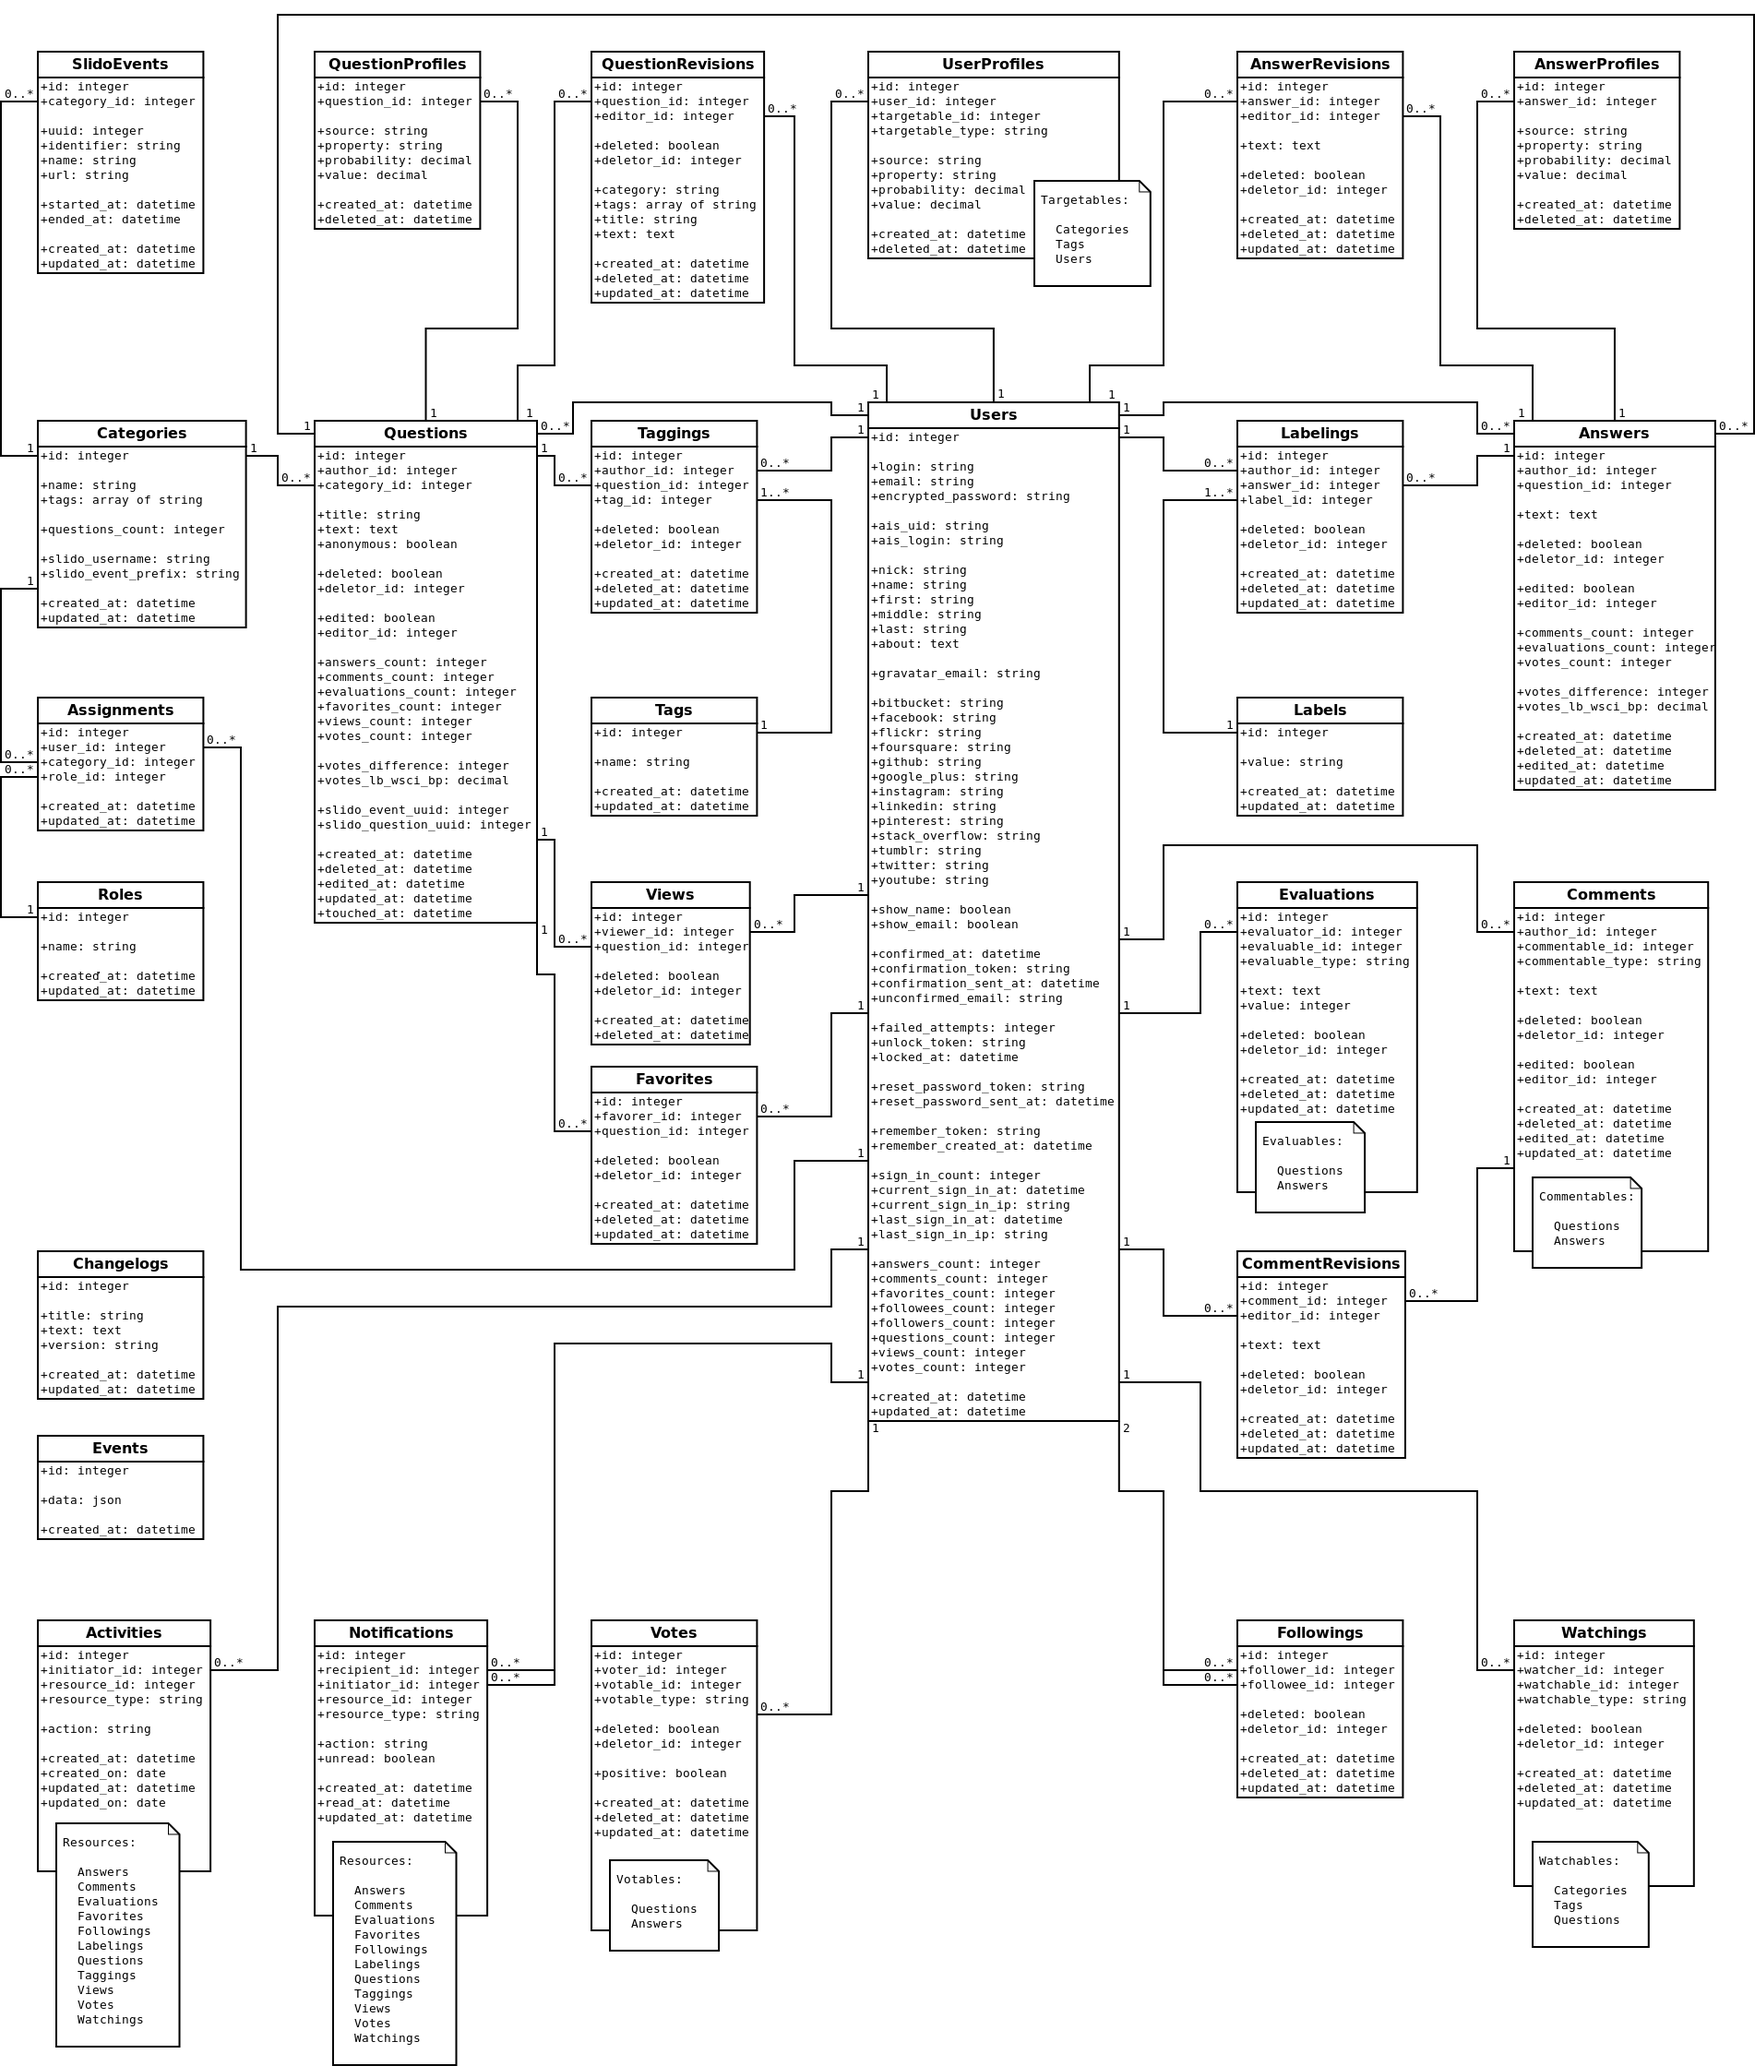
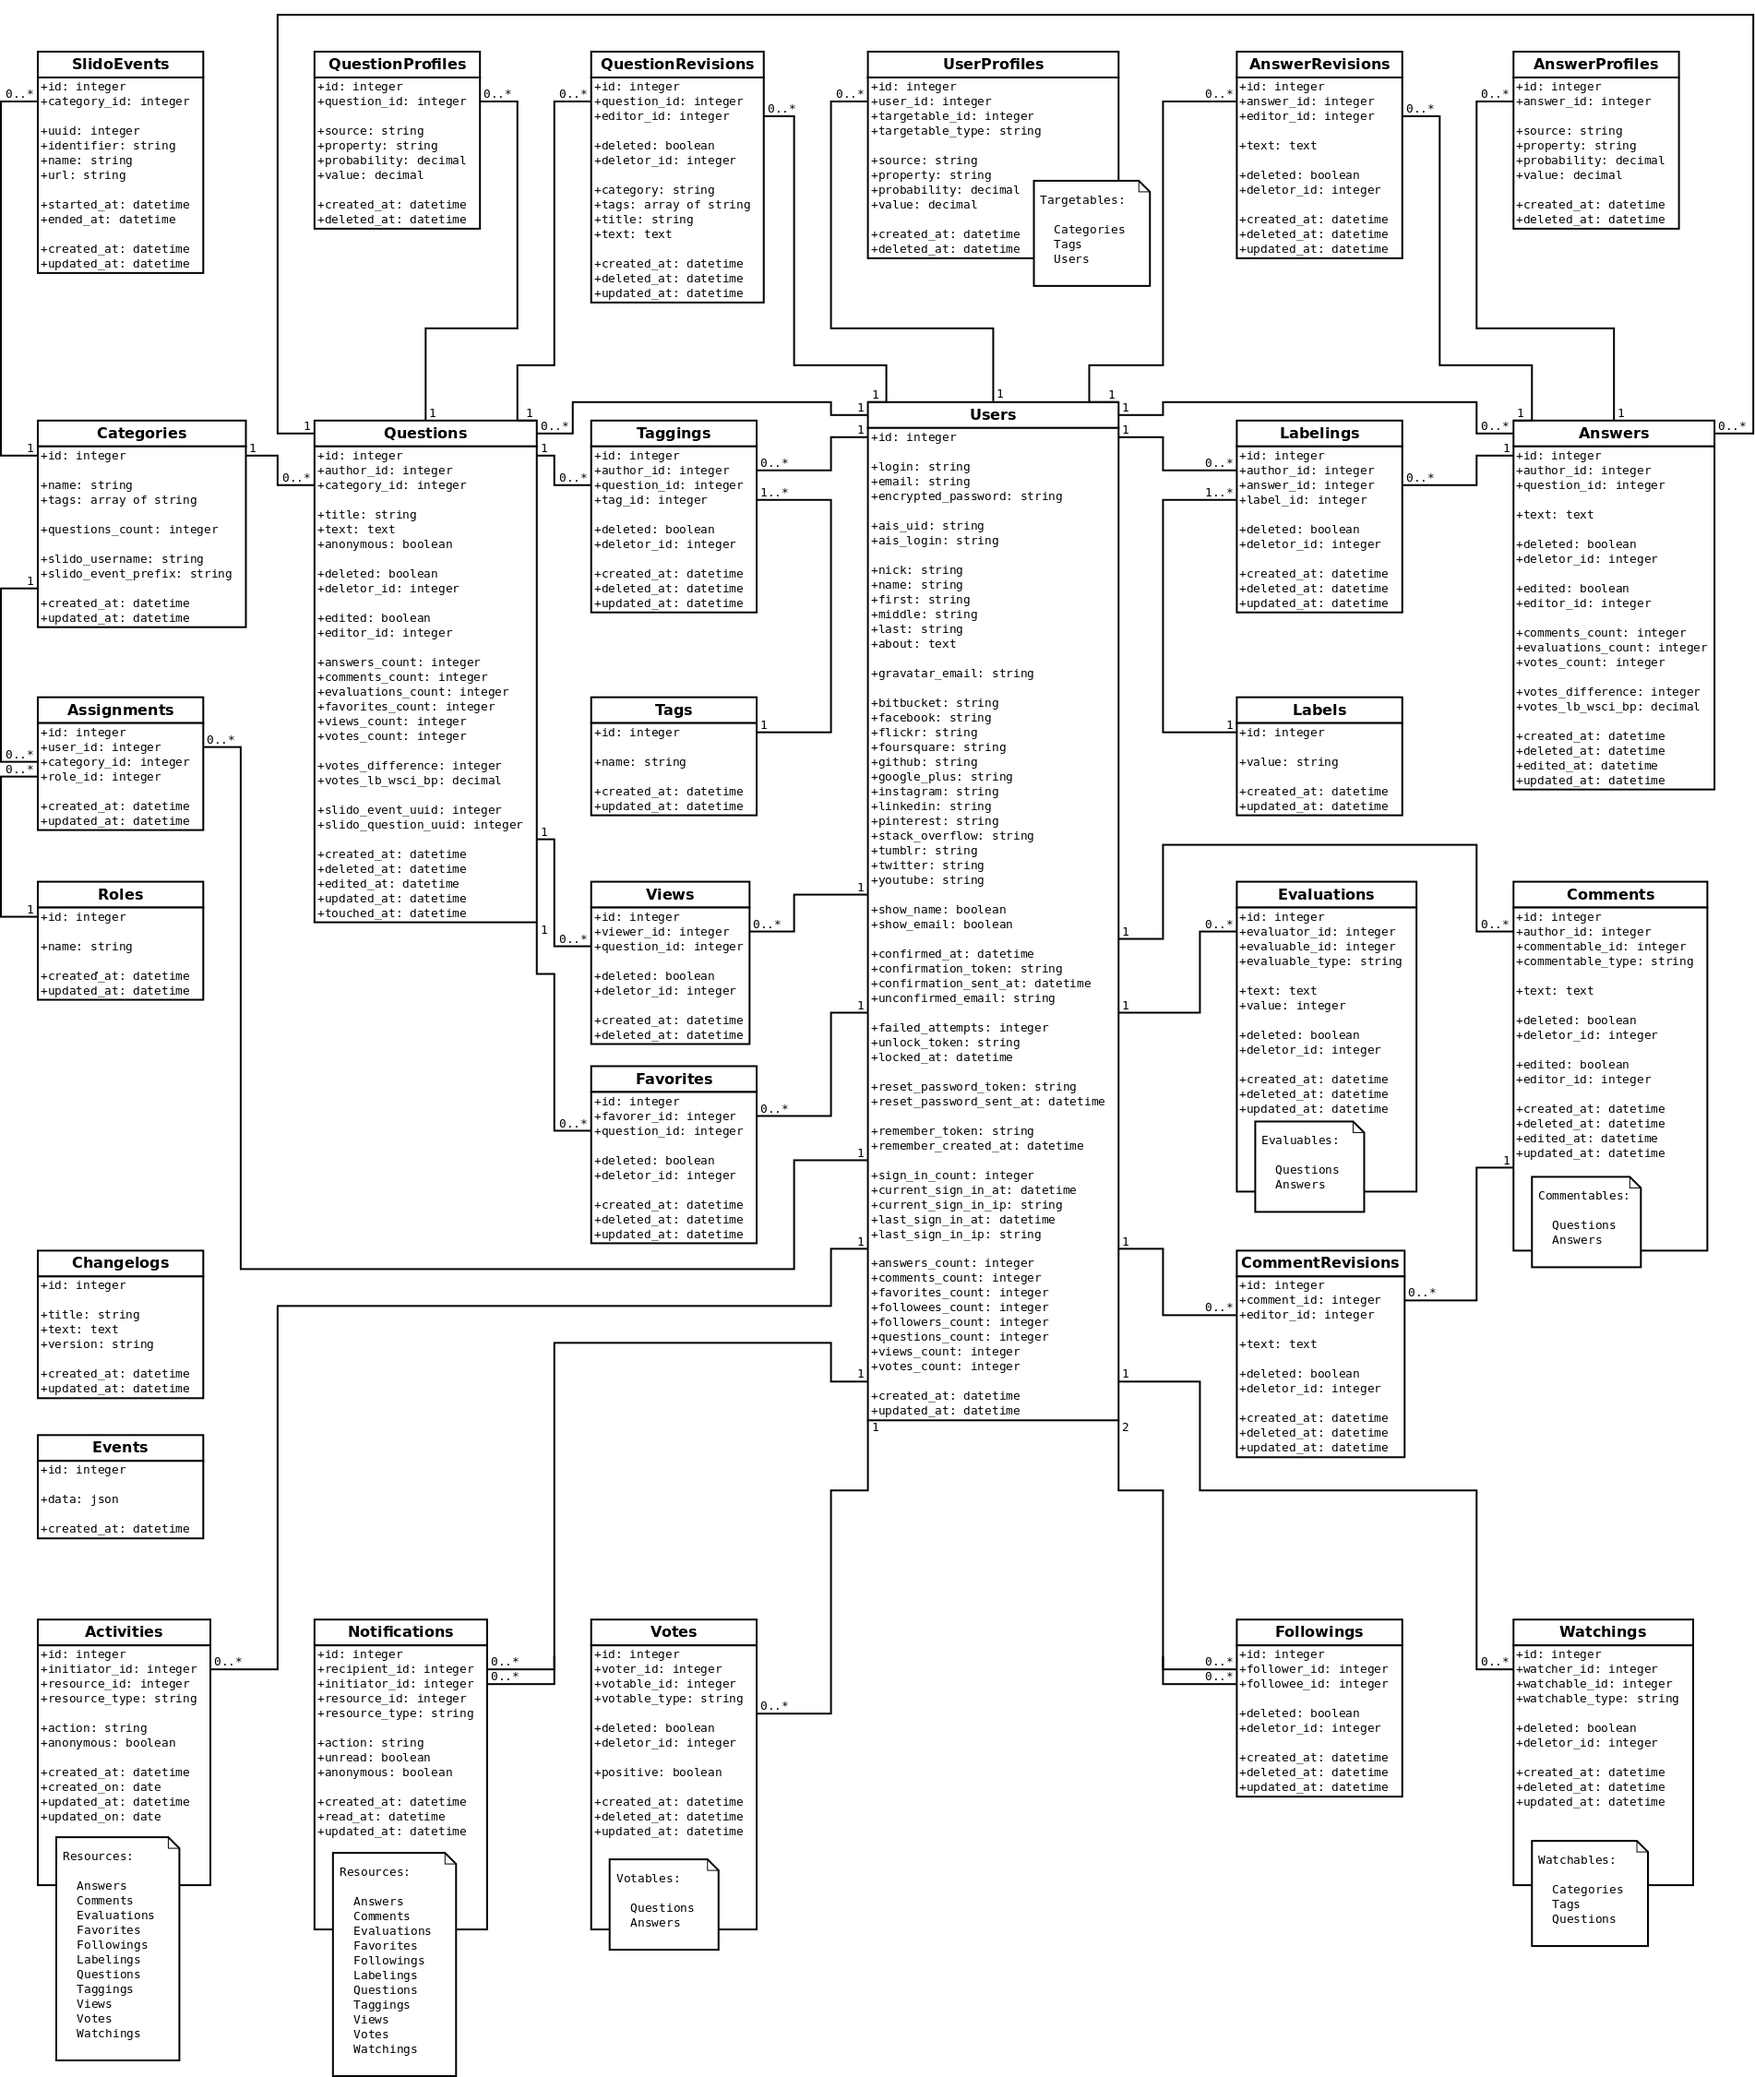
Migration to add anonymous flag to Activity and Notification

diff --git a/db/schema.rb b/db/schema.rb
@@ -11,23 +11,25 @@
 #
 # It's strongly recommended that you check this file into your version control system.
 
-ActiveRecord::Schema.define(version: 20140420093029) do
+ActiveRecord::Schema.define(version: 20140419150139) do
 
   # These are extensions that must be enabled in order to support this database
   enable_extension "plpgsql"
 
   create_table "activities", force: true do |t|
-    t.integer  "initiator_id",  null: false
-    t.integer  "resource_id",   null: false
-    t.string   "resource_type", null: false
-    t.string   "action",        null: false
-    t.date     "created_on",    null: false
-    t.date     "updated_on",    null: false
-    t.datetime "created_at",    null: false
-    t.datetime "updated_at",    null: false
+    t.integer  "initiator_id",                  null: false
+    t.integer  "resource_id",                   null: false
+    t.string   "resource_type",                 null: false
+    t.string   "action",                        null: false
+    t.datetime "created_at"
+    t.datetime "updated_at"
+    t.date     "created_on",                    null: false
+    t.date     "updated_on",                    null: false
+    t.boolean  "anonymous",     default: false, null: false
   end
 
   add_index "activities", ["action"], name: "index_activities_on_action", using: :btree
+  add_index "activities", ["created_at"], name: "index_activities_on_created_at", using: :btree
   add_index "activities", ["created_on"], name: "index_activities_on_created_on", using: :btree
   add_index "activities", ["initiator_id"], name: "index_activities_on_initiator_id", using: :btree
   add_index "activities", ["resource_id", "resource_type"], name: "index_activities_on_resource_id_and_resource_type", using: :btree
@@ -233,15 +235,16 @@ ActiveRecord::Schema.define(version: 20140420093029) do
   add_index "labels", ["value"], name: "index_labels_on_value", unique: true, using: :btree
 
   create_table "notifications", force: true do |t|
-    t.integer  "recipient_id",                 null: false
-    t.integer  "initiator_id",                 null: false
-    t.integer  "resource_id",                  null: false
-    t.string   "resource_type",                null: false
-    t.string   "action",                       null: false
-    t.boolean  "unread",        default: true, null: false
-    t.datetime "created_at",                   null: false
-    t.datetime "updated_at",                   null: false
+    t.integer  "recipient_id",                  null: false
+    t.integer  "initiator_id",                  null: false
+    t.integer  "resource_id",                   null: false
+    t.string   "resource_type",                 null: false
+    t.string   "action",                        null: false
+    t.boolean  "unread",        default: true,  null: false
+    t.datetime "created_at",                    null: false
+    t.datetime "updated_at",                    null: false
     t.datetime "read_at"
+    t.boolean  "anonymous",     default: false, null: false
   end
 
   add_index "notifications", ["action"], name: "index_notifications_on_action", using: :btree
@@ -288,8 +291,8 @@ ActiveRecord::Schema.define(version: 20140420093029) do
     t.integer  "slido_question_uuid"
     t.integer  "slido_event_uuid"
     t.boolean  "deleted",                                       default: false, null: false
-    t.decimal  "votes_lb_wsci_bp",    precision: 13, scale: 12, default: 0.0,   null: false
     t.datetime "touched_at",                                                    null: false
+    t.decimal  "votes_lb_wsci_bp",    precision: 13, scale: 12, default: 0.0,   null: false
     t.datetime "edited_at"
     t.integer  "editor_id"
     t.datetime "deleted_at"

diff --git a/db/migrate/20140419150139_add_anonymous_flag_to_activity_and_notification.rb b/db/migrate/20140419150139_add_anonymous_flag_to_activity_and_notification.rb
@@ -1,0 +1,6 @@
+class AddAnonymousFlagToActivityAndNotification < ActiveRecord::Migration
+  def change
+    add_column :activities,    :anonymous, :boolean, null: false, default: false
+    add_column :notifications, :anonymous, :boolean, null: false, default: false
+  end
+end
